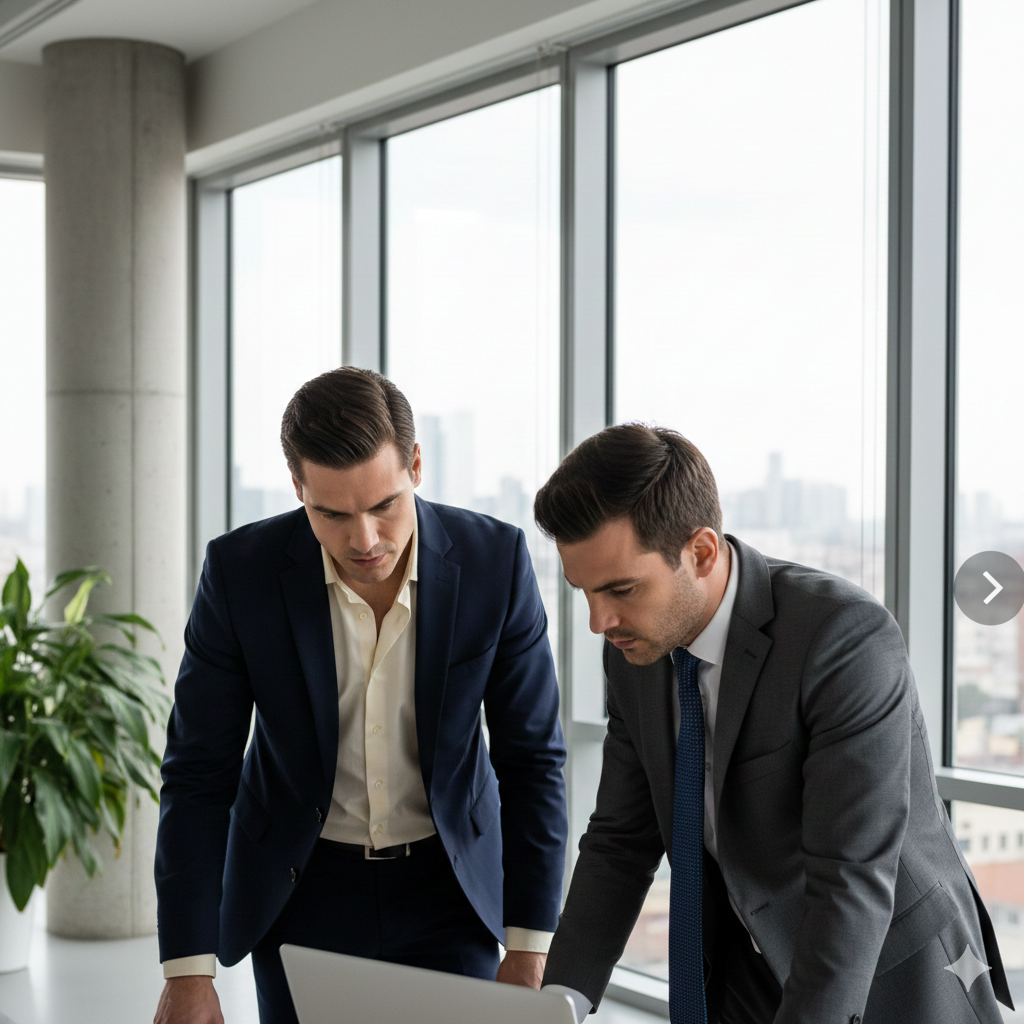
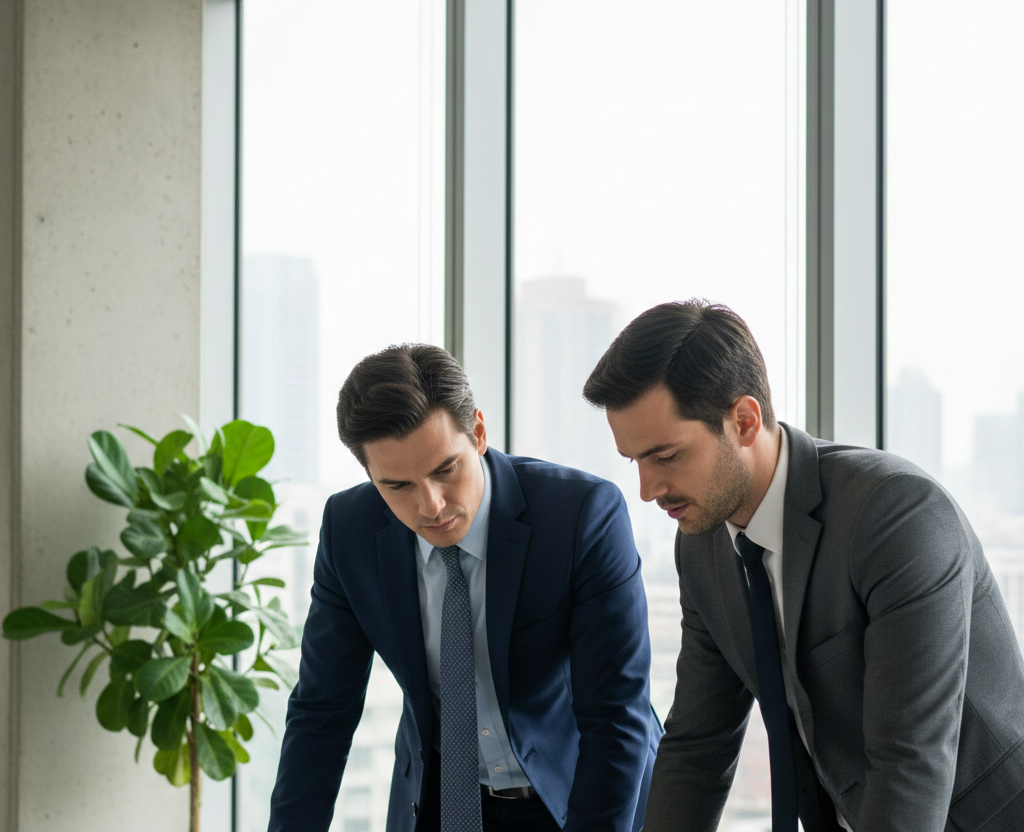
feat: Enhance image handling and layout responsiveness; add quality settings for images

diff --git a/src/app/page.tsx b/src/app/page.tsx
@@ -57,17 +57,23 @@ export default function Home() {
     {
       heading: "The Right Funding Solutions for Healthy Business Growth",
       desc: "An advisory service committed to serve the best interests of your company's current needs and future goals.",
-      image: "/home/right funding solutions.png"
+      image: "/home/right funding solutions.png",
+      width: 1024,
+      height: 832
     },
     {
       heading: "You Value Relationships Over Bots & Quick Fixes",
       desc: "We partner with like-minded business leaders who want trusted advisors in their corner to ensure they make the best decisions.",
-      image: "/home/value relationships over bots.png"
+      image: "/home/value relationships over bots.png",
+      width: 1024,
+      height: 819
     },
     {
       heading: "Creative Working Capital Empowering Entrepreneurs",
       desc: "Because your company is unique, you want partners who truly understand your story and align with your objectives.",
-      image: "/home/creative working capital.png"
+      image: "/home/creative working capital.png",
+      width: 1024,
+      height: 945
     }
   ]
 
@@ -130,23 +136,29 @@ export default function Home() {
               </div>
             </div>
 
-            {/* Image Column - 40% on desktop, square */}
-            <div className="relative w-64 h-64 lg:w-96 lg:h-96 lg:flex-[0.4] rounded-2xl overflow-hidden shadow-lg lg:hover:shadow-xl transition-shadow duration-500"
+            {/* Image Column - Responsive with image-specific aspect ratios */}
+            <div 
+              className="relative lg:flex-[0.4] rounded-2xl overflow-hidden shadow-lg lg:hover:shadow-xl transition-shadow duration-500 flex items-center justify-center"
               style={{
-                boxShadow: `0 10px 30px rgba(0, 0, 0, 0.1)`
+                boxShadow: `0 10px 30px rgba(0, 0, 0, 0.1)`,
+                width: '100%',
+                maxWidth: '400px',
+                height: 'auto',
+                aspectRatio: `${slide.width} / ${slide.height}`
               }}>
               <Image
                 key={heroIndex}
                 src={slide.image}
                 alt={slide.heading}
-                fill
-                className="object-cover"
+                width={slide.width}
+                height={slide.height}
+                className="w-full h-auto object-contain"
                 style={{
                   animation: 'slideIn 0.5s ease-out forwards'
                 }}
                 priority={heroIndex === 0}
                 loading={heroIndex === 0 ? "eager" : "lazy"}
-                sizes="(max-width: 768px) 256px, 384px"
+                sizes="(max-width: 768px) 100vw, 400px"
                 quality={85}
                 placeholder="blur"
[1 lines of base64/hex data omitted]

diff --git a/src/app/layout.tsx b/src/app/layout.tsx
@@ -115,6 +115,11 @@ export default function RootLayout({
           src="https://js.hsforms.net/forms/embed/23433903.js"
           strategy="lazyOnload"
         />
+        <Script
+          id="hs-script-loader"
+          src="//js.hs-scripts.com/23433903.js"
+          strategy="afterInteractive"
+        />
       </body>
     </html>
   )

diff --git a/next.config.ts b/next.config.ts
@@ -15,6 +15,7 @@ const nextConfig: NextConfig = {
     formats: ['image/avif', 'image/webp'],
     deviceSizes: [640, 750, 828, 1080, 1200, 1920, 2048, 3840],
     imageSizes: [16, 32, 48, 64, 96, 128, 256, 384],
+    qualities: [75, 85],
     minimumCacheTTL: 31536000, // 1 year
   },
   
